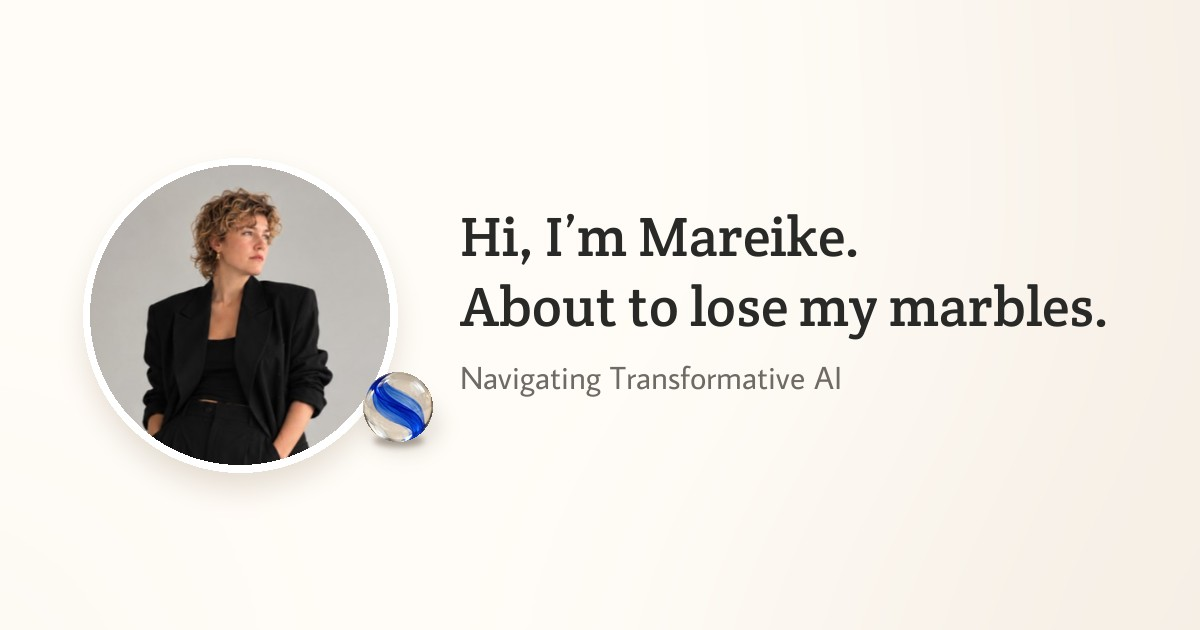
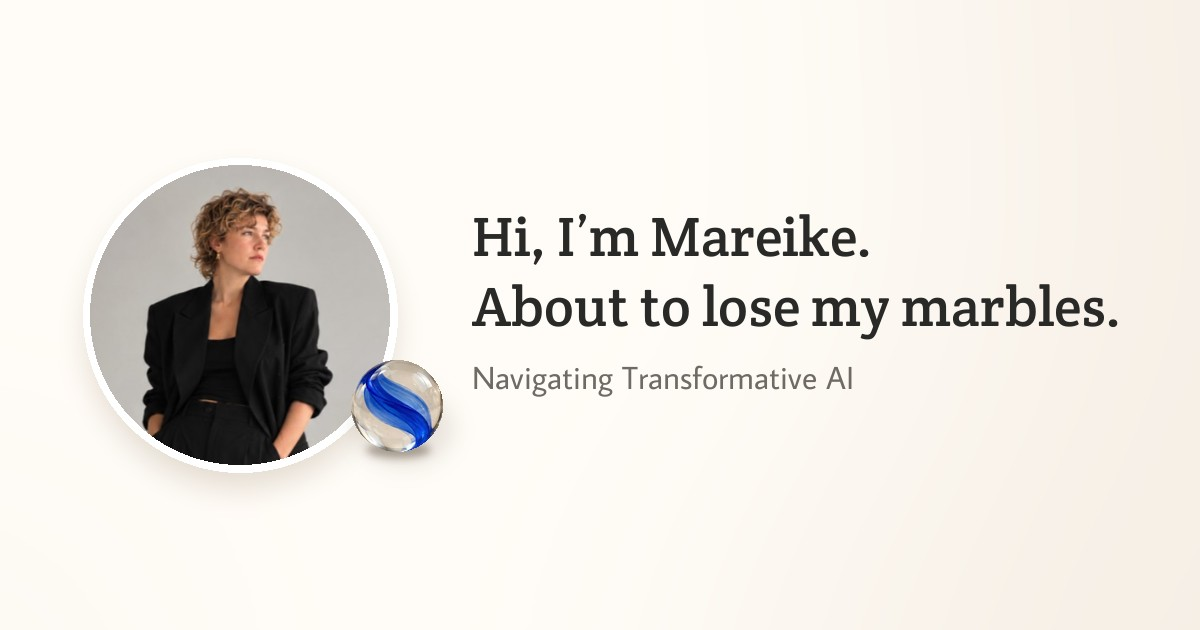
Publish the idea map (idea-map-site c470a45)

Changed region(s): [[0.37, 0.4524, 0.925, 0.5429], [0.2775, 0.573, 0.7092, 0.754], [0.37, 0.3317, 0.74, 0.4222]]

diff --git a/index.html b/index.html
@@ -1,1 +1,1 @@
-<!doctype html><html lang="en"><head><meta charset="utf-8"><meta name="viewport" content="width=device-width, initial-scale=1"><meta name="theme-color" content="#faf8f5"><title>Mareike Jens · Navigating Transformative AI</title><meta name="description" content="About to lose my marbles. Pick the ideas you’d like to discuss with me over coffee."><meta property="og:type" content="website"><meta property="og:url" content="https://mareikejens.com/"><meta property="og:site_name" content="Mareike Jens"><meta property="og:title" content="Mareike Jens · Navigating Transformative AI"><meta property="og:description" content="About to lose my marbles. Pick the ideas you’d like to discuss with me over coffee."><meta property="og:image" content="https://mareikejens.com/assets/og-image.jpg?v=4"><meta property="og:image:width" content="1200"><meta property="og:image:height" content="630"><meta property="og:image:alt" content="Mareike Jens: Hi, I’m Mareike. About to lose my marbles."><meta name="twitter:card" content="summary_large_image"><meta name="twitter:image" content="https://mareikejens.com/assets/og-image.jpg?v=4"><link rel="icon" href="/favicon.ico"><link rel="apple-touch-icon" href="/apple-touch-icon.png"><link rel="stylesheet" href="style.css"><link rel="stylesheet" href="play.css"><script defer src="content.js"></script><script defer src="explosion.js"></script><script defer src="motion.js"></script><script defer src="vendor/matter.min.js"></script><script defer src="track.js"></script><script defer src="jar.js"></script><script defer src="play.js"></script><script defer src="app.js"></script></head><body class="cover"><header class="mast"><button class="face" type="button" data-about><img src="assets/mareike.jpg" alt="Mareike Jens"></button><button class="mast-title" type="button" data-about><span id="siteTitle"></span></button><nav class="mast-tools" id="mastTools"></nav></header><main id="app"></main><dialog id="sheet"><button class="x"></button><section id="detail"></section></dialog></body></html>
+<!doctype html><html lang="en"><head><meta charset="utf-8"><meta name="viewport" content="width=device-width, initial-scale=1"><meta name="theme-color" content="#faf8f5"><title>Mareike Jens · Navigating Transformative AI</title><meta name="description" content="About to lose my marbles. Pick the ideas you’d like to discuss with me over coffee."><meta property="og:type" content="website"><meta property="og:url" content="https://mareikejens.com/"><meta property="og:site_name" content="Mareike Jens"><meta property="og:title" content="Mareike Jens · Navigating Transformative AI"><meta property="og:description" content="About to lose my marbles. Pick the ideas you’d like to discuss with me over coffee."><meta property="og:image" content="https://mareikejens.com/assets/og-image.jpg?v=5"><meta property="og:image:width" content="1200"><meta property="og:image:height" content="630"><meta property="og:image:alt" content="Mareike Jens: Hi, I’m Mareike. About to lose my marbles."><meta name="twitter:card" content="summary_large_image"><meta name="twitter:image" content="https://mareikejens.com/assets/og-image.jpg?v=5"><link rel="icon" href="/favicon.ico"><link rel="apple-touch-icon" href="/apple-touch-icon.png"><link rel="stylesheet" href="style.css"><link rel="stylesheet" href="play.css"><script defer src="content.js"></script><script defer src="explosion.js"></script><script defer src="motion.js"></script><script defer src="vendor/matter.min.js"></script><script defer src="track.js"></script><script defer src="jar.js"></script><script defer src="play.js"></script><script defer src="app.js"></script></head><body class="cover"><header class="mast"><button class="face" type="button" data-about><img src="assets/mareike.jpg" alt="Mareike Jens"></button><button class="mast-title" type="button" data-about><span id="siteTitle"></span></button><nav class="mast-tools" id="mastTools"></nav></header><main id="app"></main><dialog id="sheet"><button class="x"></button><section id="detail"></section></dialog></body></html>
